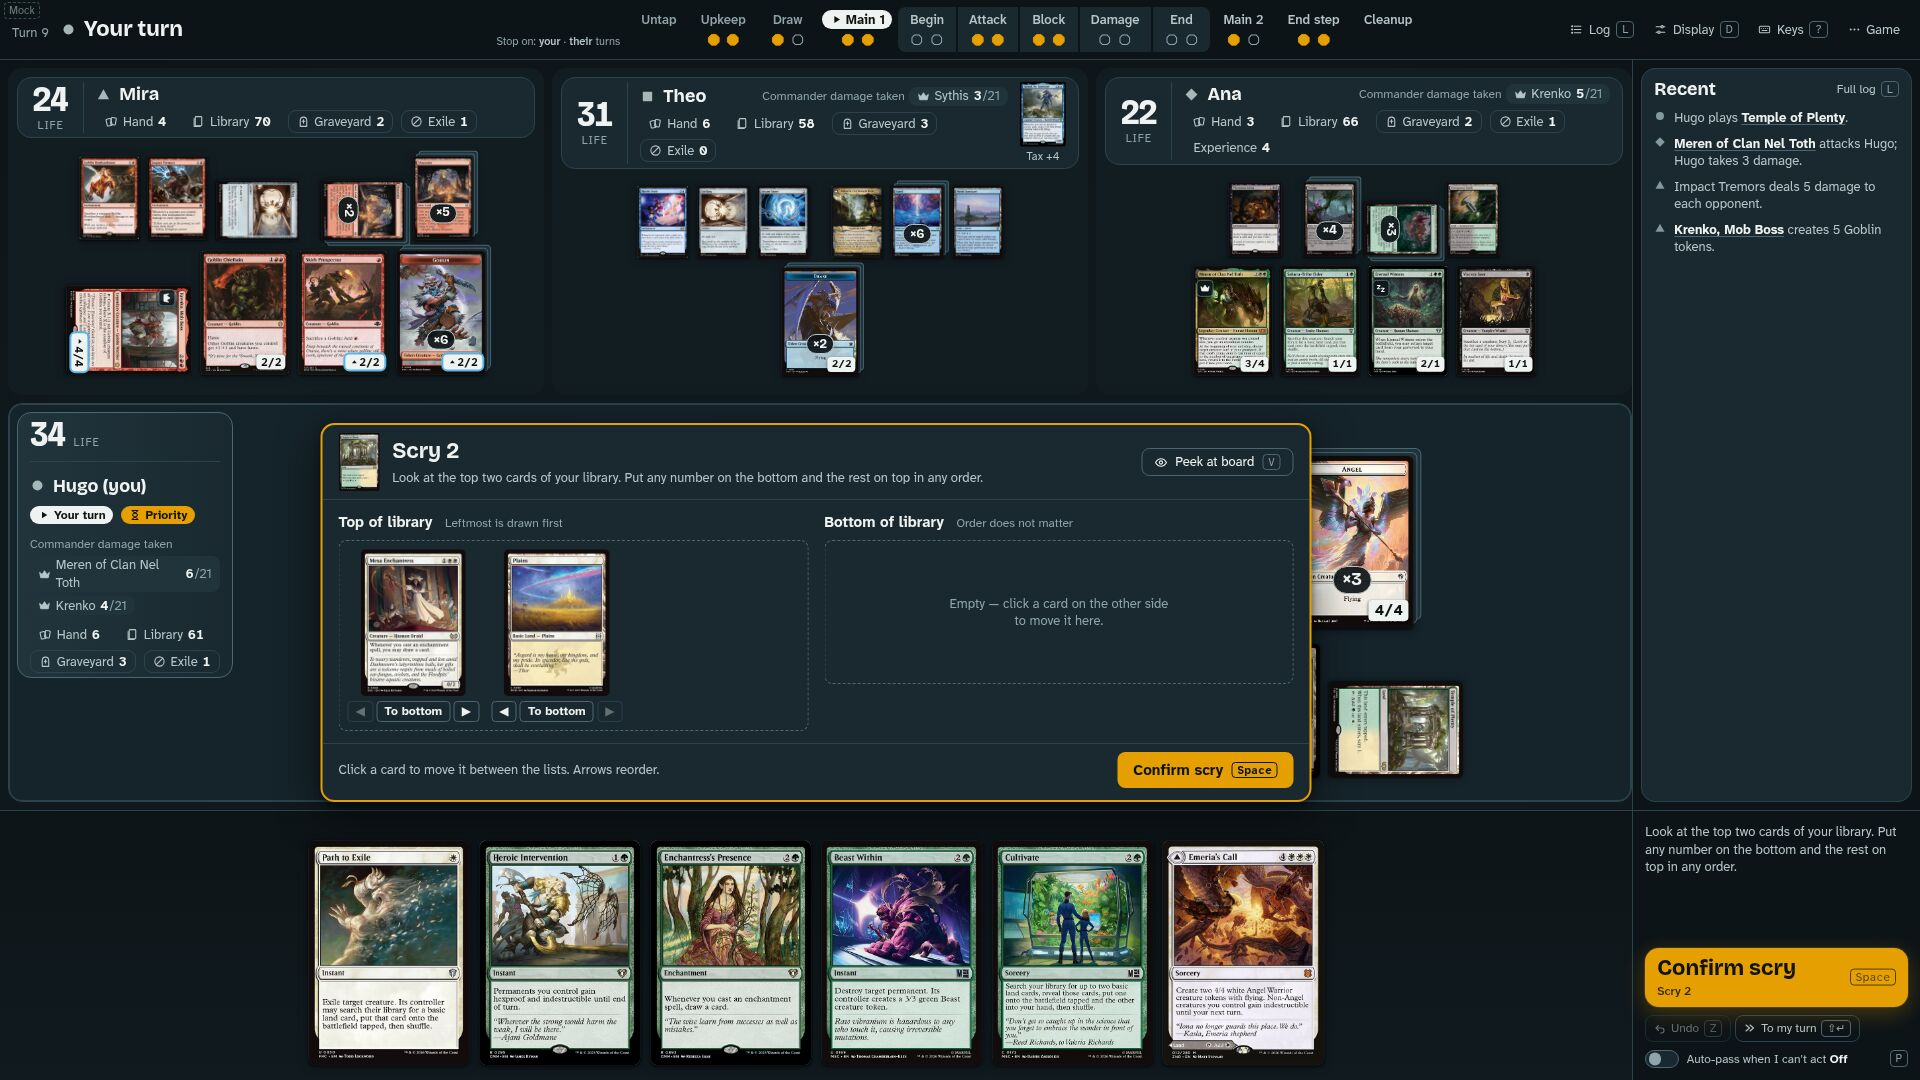
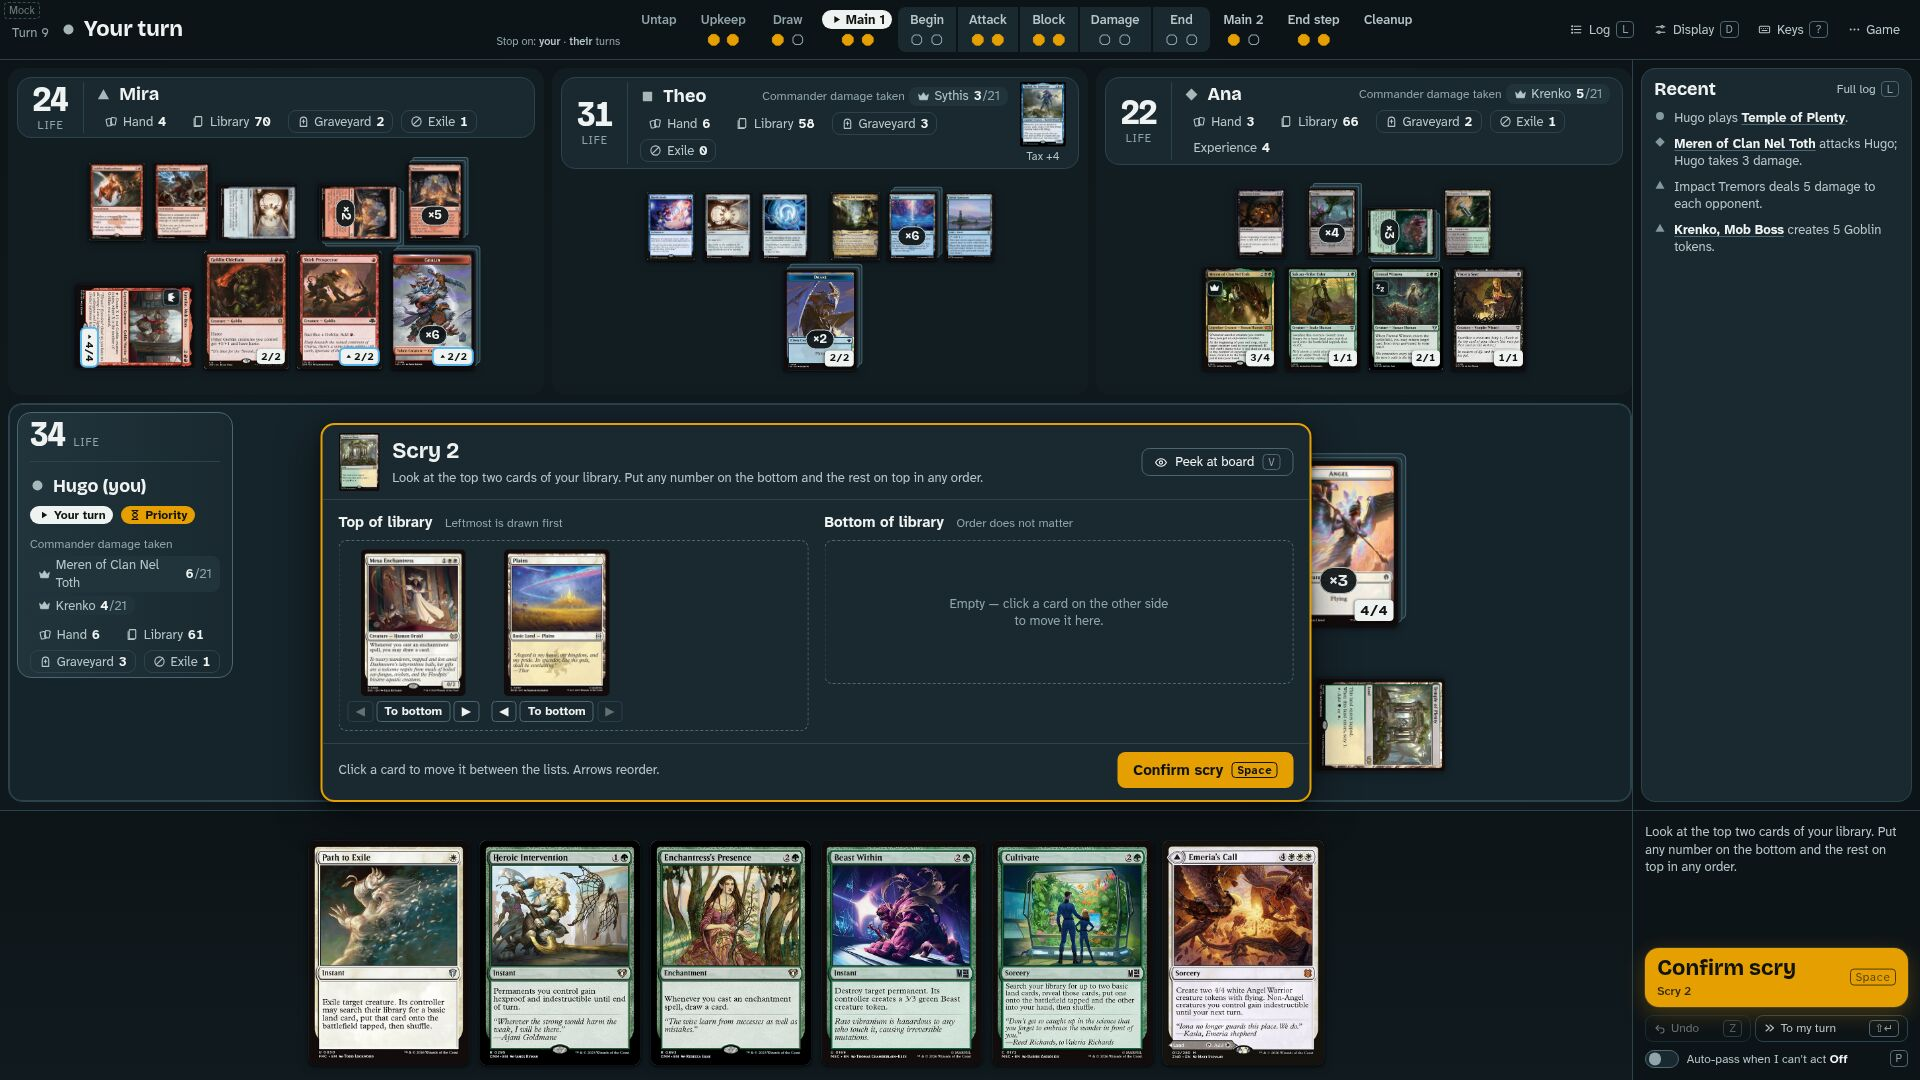
Mockup pass 2: notes and regenerated screenshots

diff --git a/docs/fork/design/mockup-notes.md b/docs/fork/design/mockup-notes.md
@@ -100,3 +100,27 @@ Every battlefield picks its own arrangement (creatures and lands in two rows, or
 `forge-gui-web/frontend/docs/screenshots/` holds 9 committed JPEGs (about 3 MB): the three 4-player layouts, blockers, scry, 1v1, a 12-card hand, the inspector, and a deuteranopia simulation.
 
 The full PNG set (34 views at 1366, 1920 and 2560 px, plus 5 colour-blind simulations, about 53 MB) is kept out of git: `*.png` in that folder is ignored. It exists only on the machine where it was taken; regenerate it with the Playwright browser tools when needed.
+
+## Pass 2 (2026-10-15)
+Clear-cut rulings from [mockup-review-1.md](mockup-review-1.md). Product decisions (phase stops, mana payment, keyword icons, opponents' card size) are not in this pass.
+
+| Ruling | Change | Code |
+|---|---|---|
+| Target highlights follow the stack | One stack item is in the spotlight: the top one by default, or the hovered one. Only its targets get the purple ring, the target badge and the dashed line; targeted players get a ring and a "Targeted" tag. Other items show nothing until hovered. Default spotlight is off while you choose targets (legal-target rings win). Hover text still names every item targeting a card. The stack list scrolls; the line start is clamped inside it. | `state/cardStatus.ts` (`spotlightItem`, `playerTargetSpot`), `Arrows.tsx`, `Rail.tsx`, `PlayerPlate.tsx` |
+| Side panel scrolling | Every rail region (stack, combat, open zone, recent) keeps its header and scrolls its own body. Regions size to content and share the shortfall; floors keep each header and a few lines visible; the rail scrolls as a last resort. Recent shows the last 20 events, newest first. | `Rail.module.css`, `CombatPanel.module.css` |
+| UI scale slider | Dragging previews the value ("release to apply"); the scale applies on the native `change` event (pointer release, or each keyboard step). | `Overlays.tsx` (`ScaleSlider`) |
+| Stable controls | Action panel, bottom up: auto-pass switch; fixed two-column row Undo / To my turn (Stop passing in the same slot); main button with a fixed minimum height; a reserved one-row slot for contextual buttons (Attack all, Cancel). Cancel moved out of the Undo row. The prompt text may use the empty slot. "Attack with all (N)" is now "Attack all (N)". | `ActionPanel.tsx`, `ActionPanel.module.css` |
+| Focus layout default | Focus is screen state, no longer a saved preference. An opponent's turn starts: focus them. Your turn: keep the current focus (first load: the opponent who played before you). Attacking an opponent (attacker toggle, Attack all, defender pick) focuses them. "Show board" overrides until the next of these. The button moved into the compact plate's name row, so a short seat can no longer clip it. | `state/focus.ts`, `MatchContext.tsx`, `Board.tsx`, `PlayerPlate.tsx` |
+| Board split configurable | Display → "Board height for opponents": 35 / 40 / 45 / 50 / 55 %, default 45. Applies to Columns, Focus and Table (Table's top row was 42 %, now follows the setting). 1v1 stays 50 / 50. | `state/prefs.ts` (`opponentShare`), `Board.tsx`, `Overlays.tsx` |
+| Hand beyond 9 cards | 10+ cards stagger at full size at once (pass 1 shrank to 85 % first). They stay flat only if all fit at full size with no overlap. Cards shrink only when back cards would collide. Measured at 1920×1080 with 2 other-zone cards: 9 → 135 px (flat), 10 and 12 → 161 px, 15 → 158 px. | `handLayout.ts` |
+| No per-colour untapped mana for opponents | Confirmed none exists. Compact seats show only a land count with the number untapped. | — |
+
+New scenarios: `stack6` (six-item stack, three players, card and player targets), `hand10`, `hand15`. The Focus scenario at load now focuses Ana (played before you) instead of Mira.
+
+The mock engine now resolves abilities and triggers without moving their source (Goblin Bombardment deals 1 damage; other abilities log their text).
+
+Tests: 34 (pass 1: 17). New: spotlight (`state/stackSpotlight.test.ts`), focus (`state/focus.test.ts`), hand 10/12/15 and 10 + 2 (`components/layout.test.ts`). The auto-pass/auto-yield default test now covers every scenario.
+
+Verified with Playwright at 1920×1080 and 1366×768 (desktop context, device scale 1): every scenario in all three layouts with no console errors or warnings. Undo, To my turn and the auto-pass switch keep identical rects in 18 states, including targeting, attack drafts, pending blocks, passing to your turn and waiting. Rail regions scroll independently with the stack, an open graveyard and recent events all visible at 1366×768. The scale stays unchanged while dragging and applies on release and on arrow, Home and End keys. All 9 committed JPEGs were regenerated. The deuteranopia JPEG uses the Machado 2009 matrix in linear RGB (ImageMagick `-color-matrix`).
+
+Not addressed, waiting on product: at 1366×768 the compact plate of an opponent with a commander thumbnail (Theo) is still taller than its seat, and its bottom chips are clipped.
